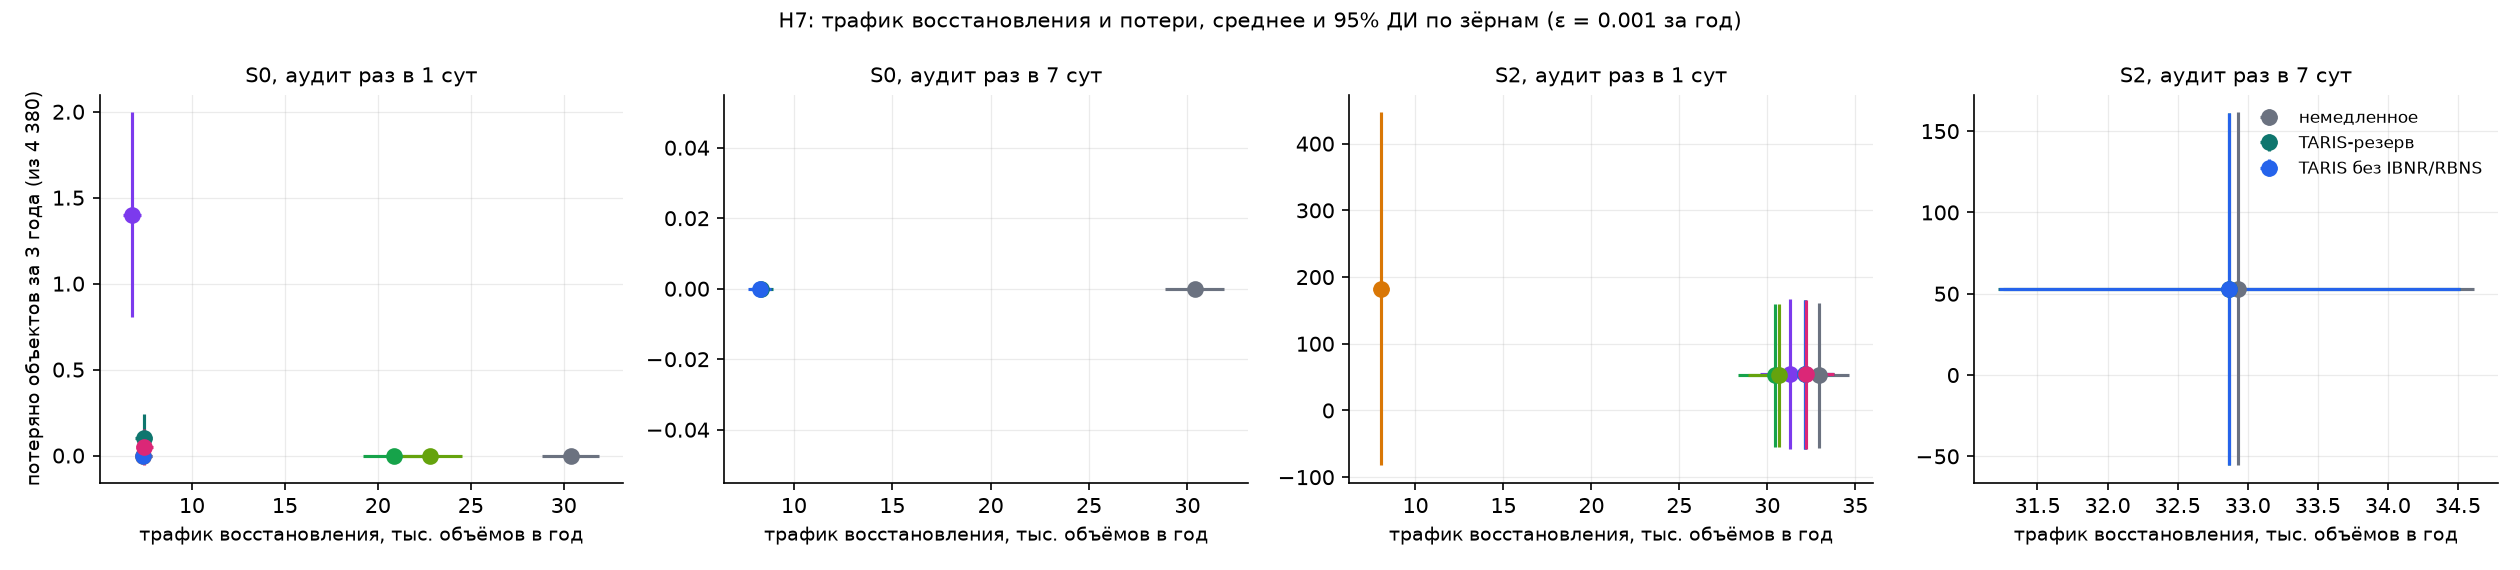
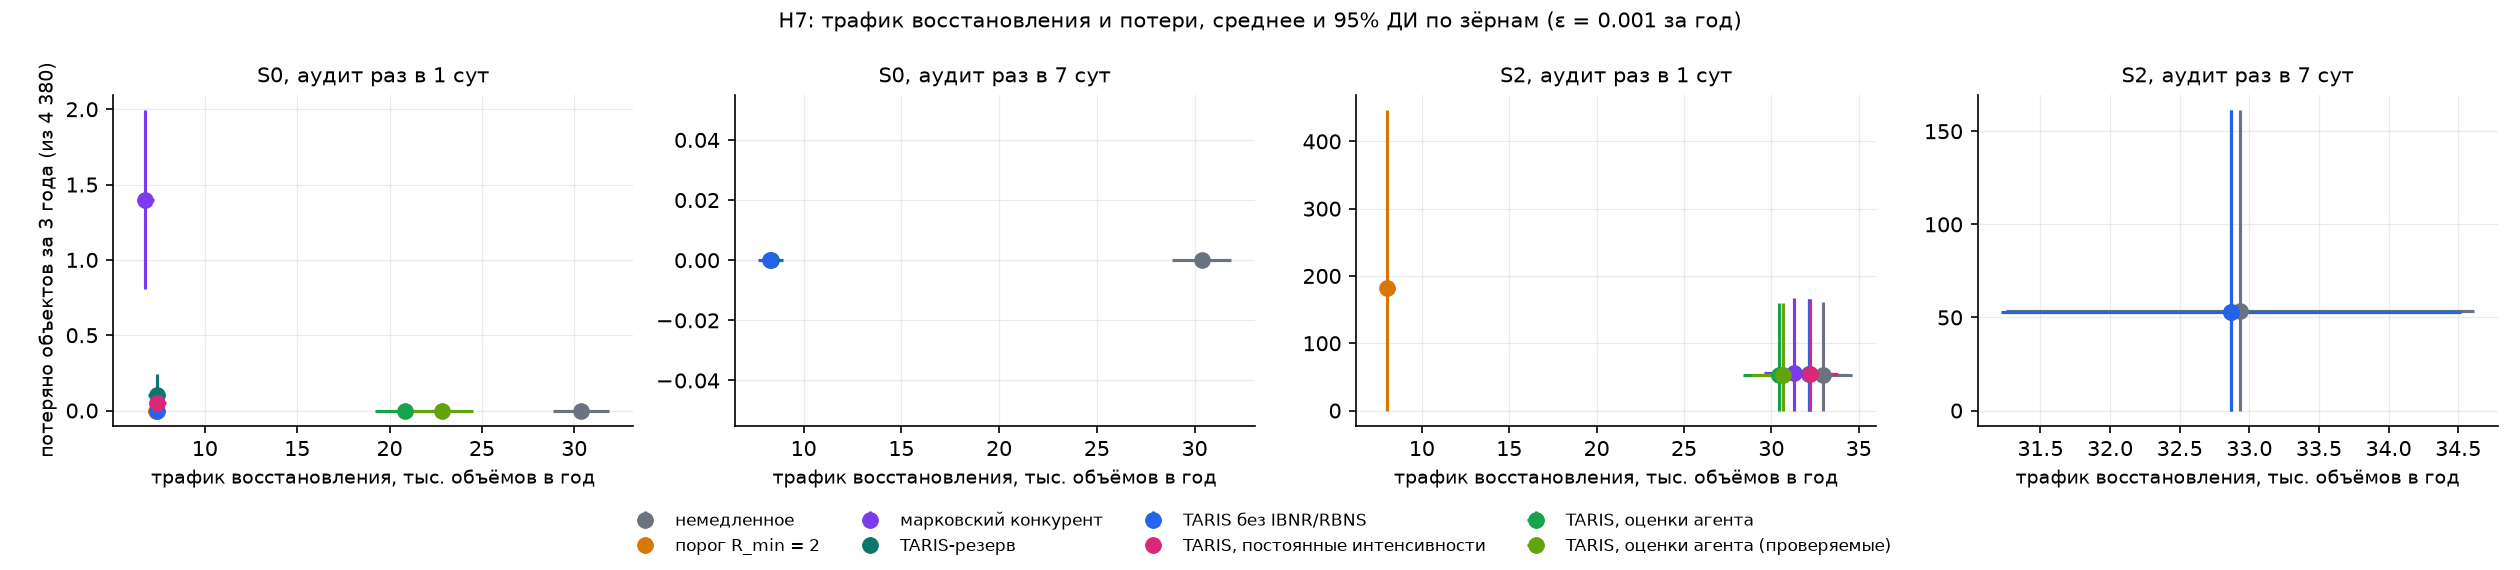
h7_report: общая легенда, интервалы потерь не ниже нуля

diff --git a/scripts/h7_report.py b/scripts/h7_report.py
@@ -106,16 +106,24 @@ def figure(df, eps):
         for p in [x for x in ORDER if x in set(g.policy)]:
             x = g[g.policy == p]
             (mt, ht), (ml, hl) = ci(x.traffic), ci(x.lost)
-            ax.errorbar(mt / 1000, ml, xerr=ht / 1000, yerr=hl, fmt="o", ms=7, lw=1.5, color=colors[p], label=NAMES[p])
+            hl = 0.0 if not np.isfinite(hl) else hl
+            # потери неотрицательны: нижняя граница интервала обрезается нулём
+            ax.errorbar(mt / 1000, ml, xerr=ht / 1000, yerr=[[min(hl, ml)], [hl]], fmt="o", ms=7, lw=1.5,
+                        color=colors[p], label=NAMES[p])
         ax.set_title(f"{s}, аудит раз в {a} сут", fontsize=10)
         ax.set_xlabel("трафик восстановления, тыс. объёмов в год", fontsize=9)
         ax.grid(alpha=0.25, lw=0.6)
         for sp in ("top", "right"):
             ax.spines[sp].set_visible(False)
     axes[0][0].set_ylabel("потеряно объектов за 3 года (из 4 380)", fontsize=9)
-    axes[0][-1].legend(fontsize=8, frameon=False, loc="upper right")
+    handles, labels = {}, {}
+    for ax in axes[0]:
+        for h, l in zip(*ax.get_legend_handles_labels()):
+            handles.setdefault(l, h)
+    order = [NAMES[p] for p in ORDER if NAMES[p] in handles]
+    fig.legend([handles[l] for l in order], order, fontsize=8, frameon=False, loc="lower center", ncol=4)
     fig.suptitle(f"H7: трафик восстановления и потери, среднее и 95% ДИ по зёрнам (ε = {eps:g} за год)", fontsize=10)
-    fig.tight_layout()
+    fig.tight_layout(rect=(0, 0.1, 1, 1))
     os.makedirs(os.path.join(ROOT, "figures"), exist_ok=True)
     path = os.path.join(ROOT, "figures", "h7_traffic_loss.png" if eps == 1e-3 else f"h7_traffic_loss_e{eps:g}.png")
     fig.savefig(path, dpi=150)
